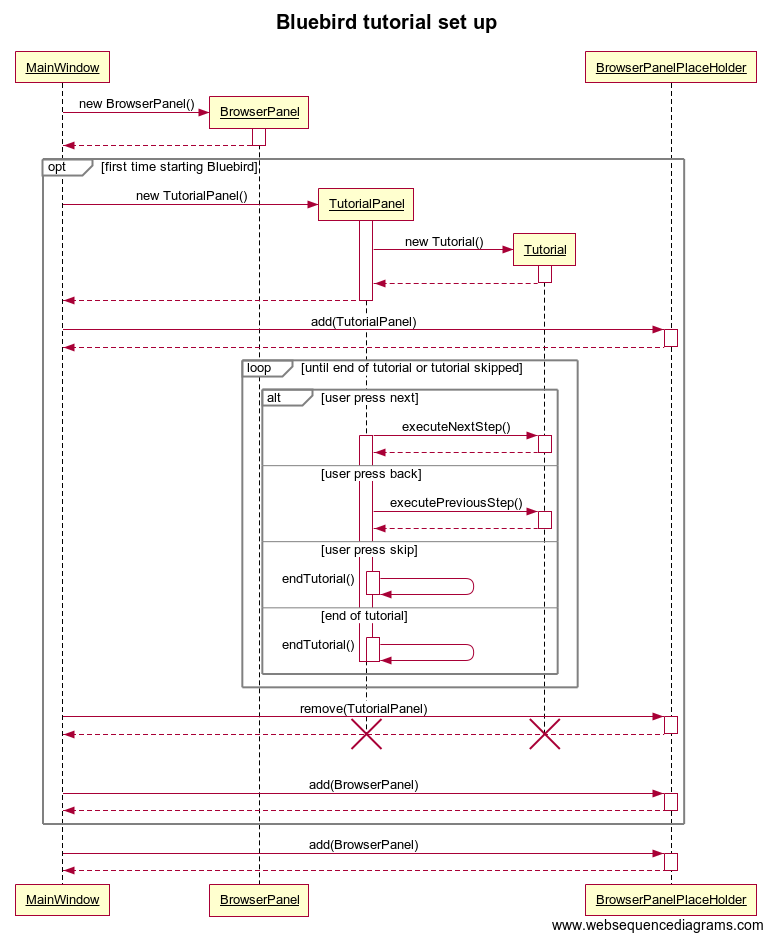
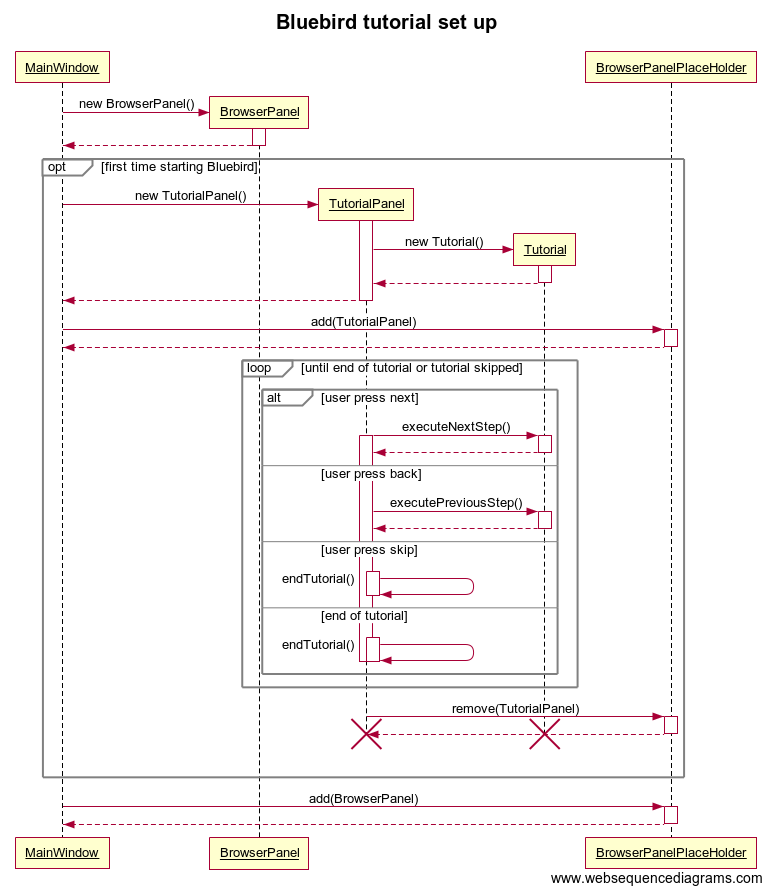
updated switch to browser methods

diff --git a/src/main/java/seedu/address/ui/MainWindow.java b/src/main/java/seedu/address/ui/MainWindow.java
@@ -19,11 +19,11 @@ import seedu.address.MainApp;
 import seedu.address.commons.core.Config;
 import seedu.address.commons.core.GuiSettings;
 import seedu.address.commons.core.LogsCenter;
+import seedu.address.commons.events.ui.SwitchToBrowserEvent;
 import seedu.address.commons.events.ui.ExitAppRequestEvent;
 import seedu.address.commons.events.ui.ShowHelpRequestEvent;
 import seedu.address.commons.util.FxViewUtil;
 import seedu.address.logic.Logic;
-
 import seedu.address.model.UserPrefs;
 
 /**
@@ -157,7 +157,7 @@ public class MainWindow extends UiPart<Region> {
             TutorialPanel tutorialPanel = new TutorialPanel(this, browserPanel, browserPlaceholder);
             browserPlaceholder.getChildren().add(tutorialPanel.getRoot());
         } else {
-            browserPlaceholder.getChildren().add(browserPanel.getRoot());
+            switchToBrowser();
         }
     }
 
@@ -236,6 +236,16 @@ public class MainWindow extends UiPart<Region> {
     private void handleShowHelpEvent(ShowHelpRequestEvent event) {
         logger.info(LogsCenter.getEventHandlingLogMessage(event));
         handleHelp();
+    }
+
+    @Subscribe
+    private void handleSwitchToBrowserEvent(SwitchToBrowserEvent event) {
+        logger.info(LogsCenter.getEventHandlingLogMessage(event));
+        switchToBrowser();
+    }
+
+    private void switchToBrowser() {
+        browserPlaceholder.getChildren().add(browserPanel.getRoot());
     }
 
     /**

diff --git a/src/main/java/seedu/address/ui/TutorialPanel.java b/src/main/java/seedu/address/ui/TutorialPanel.java
@@ -10,6 +10,7 @@ import javafx.scene.layout.Region;
 import javafx.scene.layout.StackPane;
 import seedu.address.commons.core.LogsCenter;
 import seedu.address.commons.core.TutorialMessages;
+import seedu.address.commons.events.ui.SwitchToBrowserEvent;
 import seedu.address.logic.commands.exceptions.CommandException;
 import seedu.address.logic.parser.exceptions.ParseException;
 
@@ -102,6 +103,6 @@ public class TutorialPanel extends UiPart<Region> {
         mainWindow.unhighlightAll();
         mainWindow.setCommandPrompt(TutorialMessages.PROMPT_DEFAULT);
         browserPlaceHolder.getChildren().remove(this.getRoot());
-        browserPlaceHolder.getChildren().add(browserPanel.getRoot());
+        raise(new SwitchToBrowserEvent());
     }
 }

diff --git a/src/main/java/seedu/address/commons/events/ui/SwitchToBrowserEvent.java b/src/main/java/seedu/address/commons/events/ui/SwitchToBrowserEvent.java
@@ -1,0 +1,15 @@
+package seedu.address.commons.events.ui;
+
+import seedu.address.commons.events.BaseEvent;
+
+/**
+ * An event requesting to switch to browser panel.
+ */
+public class SwitchToBrowserEvent extends BaseEvent {
+
+    @Override
+    public String toString() {
+        return this.getClass().getSimpleName();
+    }
+
+}
